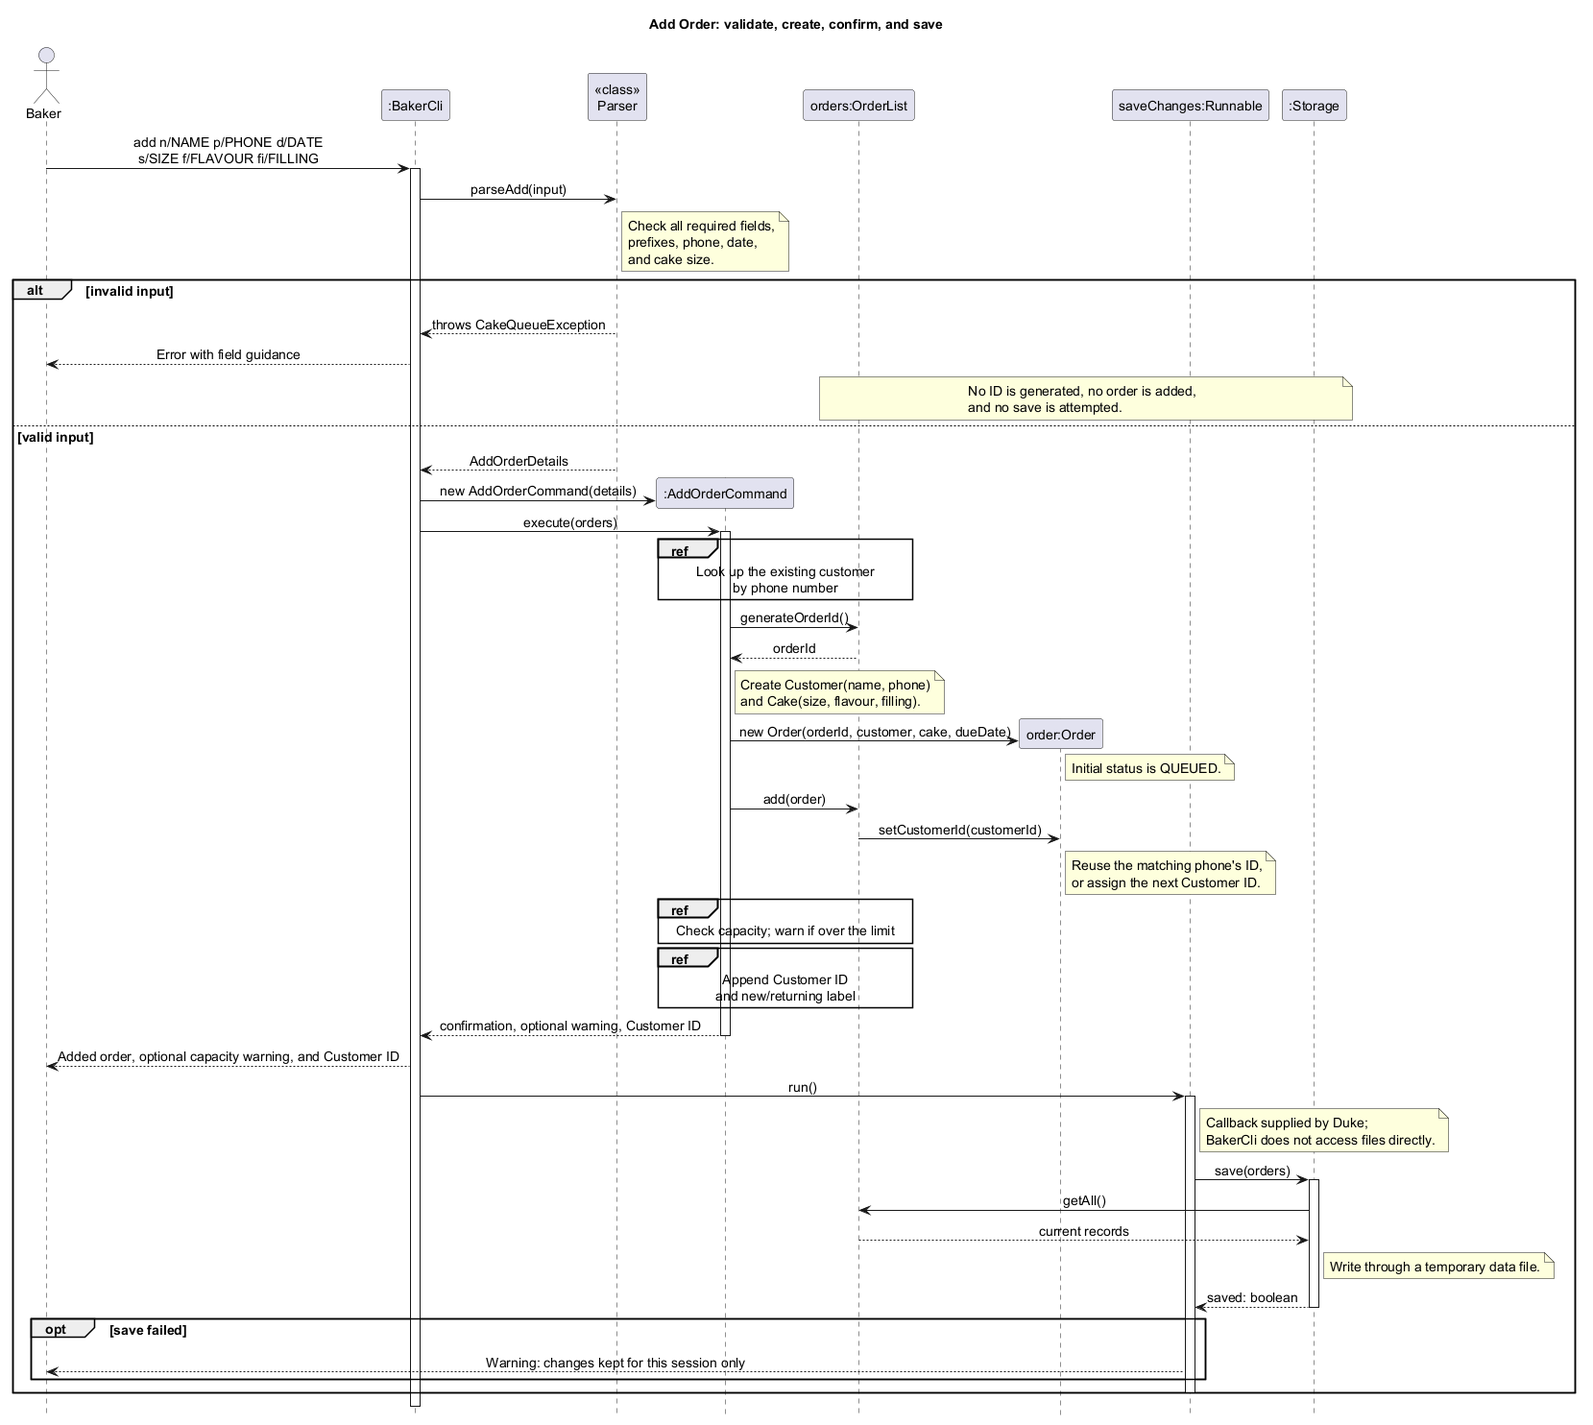
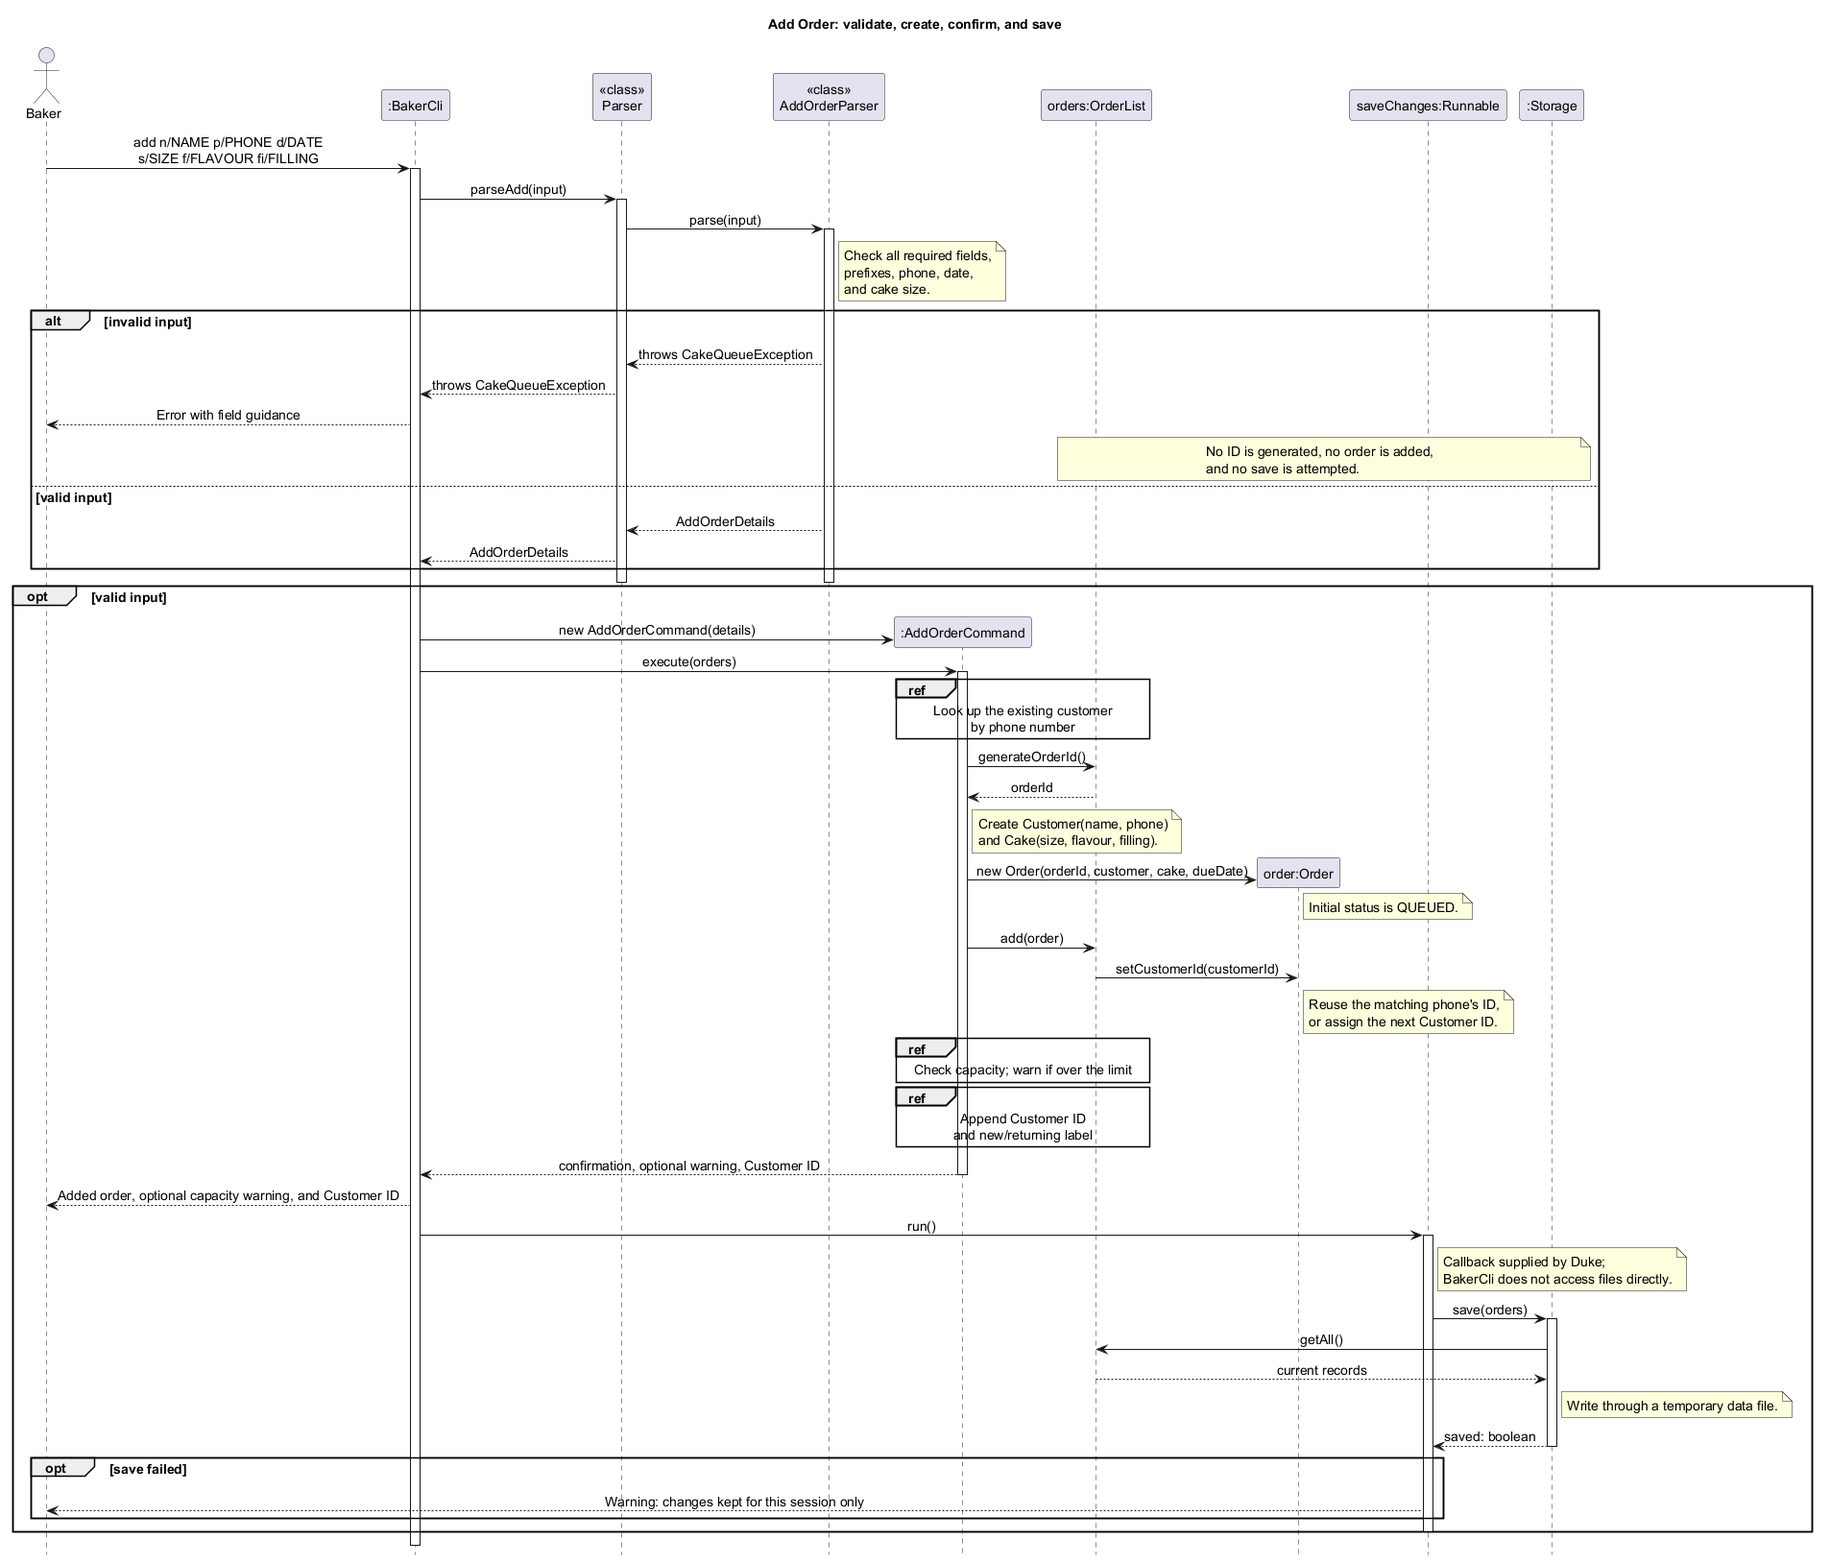
Extract AddOrderParser
Separate six-field Add Order parsing while retaining the existing entry point, shared validation rules and original author credit. Update the Developer Guide and diagrams to match.

diff --git a/src/main/java/seedu/duke/parser/Parser.java b/src/main/java/seedu/duke/parser/Parser.java
@@ -19,21 +19,12 @@ import seedu.duke.model.OrderStatus;
  * Parses and validates CakeQueue command input for baker mode.
  */
 public final class Parser {
-    private static final List<String> PREFIXES = List.of("n/", "p/", "d/", "s/", "f/", "fi/");
-    //@@author Eethanzyj
-    /**
-     * Gives a field's purpose and syntax when a required value is missing.
-     */
-    private static final Map<String, String> FIELD_GUIDANCE = Map.of(
-            "n/", "a customer name using n/NAME",
-            "p/", "a phone number using p/PHONE",
-            "d/", "a due date using d/DD-MM-YYYY",
-            "s/", "a cake size using s/6, s/8, or s/10",
-            "f/", "a cake flavour using f/FLAVOUR",
-            "fi/", "a cake filling using fi/FILLING");
-    //@@author
-    private static final Pattern FIELD_PREFIX = Pattern.compile("(?<!\\S)([^\\s/]+/)");
-    private static final String USAGE = "Use: add n/NAME p/PHONE d/DATE s/SIZE f/FLAVOUR fi/FILLING";
+    // Package-private syntax and validators are shared by Add Order and Edit Order parsing.
+    static final List<String> PREFIXES = List.of("n/", "p/", "d/", "s/", "f/", "fi/");
+    static final Pattern FIELD_PREFIX = Pattern.compile("(?<!\\S)([^\\s/]+/)");
+    static final DateTimeFormatter DATE_FORMATTER = DateTimeFormatter
+            .ofPattern("dd-MM-uuuu")
+            .withResolverStyle(ResolverStyle.STRICT);
     private static final String UPDATE_USAGE =
             "Use: edit ORDER_ID [n/NAME] [p/PHONE] [d/DATE] "
                     + "[s/SIZE] [f/FLAVOUR] [fi/FILLING]";
@@ -41,9 +32,6 @@ public final class Parser {
     private static final String MARK_USAGE = "Use: mark ORDER_ID preparing|ready|collected";
     private static final String CAPACITY_USAGE = "Use: capacity [NUMBER]";
     private static final String FIND_USAGE = "Use: find KEYWORD";
-    private static final DateTimeFormatter DATE_FORMATTER = DateTimeFormatter
-            .ofPattern("dd-MM-uuuu")
-            .withResolverStyle(ResolverStyle.STRICT);
 
     private Parser() {
     }
@@ -166,14 +154,19 @@ public final class Parser {
         }
     }
 
-    //@@author HammerHead-os
+    //@@author Eethanzyj
     /**
-     * Parses and validates a baker add command.
+     * Delegates Add Order validation to its dedicated parser.
+     *
+     * @param input The complete command entered by the baker.
+     * @return The validated details used by AddOrderCommand.
+     * @throws CakeQueueException If the command or any required field is invalid.
      */
     public static AddOrderDetails parseAdd(String input) {
-        return parseSixFieldCommand(input, "add", USAGE);
+        return AddOrderParser.parse(input);
     }
 
+    //@@author HammerHead-os
     /**
      * Parses cancel ORDER_ID|ENQUIRY_ID.
      */
@@ -200,42 +193,12 @@ public final class Parser {
     }
 
     //@@author HammerHead-os
-    private static AddOrderDetails parseSixFieldCommand(String input, String commandWord,
-                                                        String usage) {
-        if (input == null || input.isBlank()) {
-            throw new CakeQueueException(usage);
-        }
-        //@@author Eethanzyj
-        String[] command = input.trim().split("\\s+", 2);
-        //@@author HammerHead-os
-        if (!command[0].equalsIgnoreCase(commandWord) || command.length != 2) {
-            throw new CakeQueueException(usage);
-        }
-        Map<String, String> fields = parseFields(command[1], usage);
-        //@@author Eethanzyj
-        LocalDate dueDate;
-        try {
-            dueDate = LocalDate.parse(fields.get("d/"), DATE_FORMATTER);
-        } catch (DateTimeParseException exception) {
-            //@@author HammerHead-os
-            throw new CakeQueueException("Date must use DD-MM-YYYY and be valid.", exception);
-        }
-        // Reject dates in the past — a baker cannot bake for yesterday.
-        if (dueDate.isBefore(LocalDate.now())) {
-            throw new CakeQueueException("Due date cannot be in the past.");
-        }
-        validatePhone(fields.get("p/"));
-        int size = parseCakeSize(fields.get("s/"));
-        return new AddOrderDetails(fields.get("n/"), fields.get("p/"), dueDate,
-                size, fields.get("f/"), fields.get("fi/"));
-    }
-
     /**
      * Validates that a phone number has at least 8 digits and otherwise only spaces, {@code +} or {@code -}.
      * This catches obvious typos (letters, symbols) while still accepting formatted numbers such as
      * {@code +65 9123-4567}, without enforcing a specific country format.
      */
-    private static void validatePhone(String phone) {
+    static void validatePhone(String phone) {
         boolean hasAllowedCharacters = phone.matches("[0-9+\\- ]+");
         long digitCount = phone.chars().filter(Character::isDigit).count();
         if (!hasAllowedCharacters || digitCount < 8) {
@@ -258,7 +221,7 @@ public final class Parser {
     }
 
     //@@author
-    private static int parseCakeSize(String sizeText) {
+    static int parseCakeSize(String sizeText) {
         int size;
         try {
             size = Integer.parseInt(sizeText);
@@ -269,48 +232,6 @@ public final class Parser {
             throw new CakeQueueException("Cake size must be 6, 8, or 10 inches.");
         }
         return size;
-    }
-
-    /**
-     * Extracts field values between prefixes and rejects missing or repeated fields.
-     */
-    private static Map<String, String> parseFields(String arguments, String usage) {
-        Map<String, String> fields = new LinkedHashMap<>();
-        Matcher matcher = FIELD_PREFIX.matcher(arguments);
-        String previousPrefix = null;
-        int valueStart = 0;
-        while (matcher.find()) {
-            if (previousPrefix == null && !arguments.substring(0, matcher.start()).isBlank()) {
-                throw new CakeQueueException(usage);
-            }
-            if (previousPrefix != null) {
-                fields.put(previousPrefix, arguments.substring(valueStart, matcher.start()).trim());
-            }
-            String prefix = matcher.group(1);
-            //@@author Eethanzyj
-            if (!PREFIXES.contains(prefix)) {
-                throw new CakeQueueException("Unknown field: " + prefix
-                        + ". Supported prefixes: " + String.join(", ", PREFIXES) + ".");
-            }
-            if (fields.containsKey(prefix)) {
-                throw new CakeQueueException("Duplicate field: " + prefix + ". Supply each field once.");
-            }
-            //@@author
-            previousPrefix = prefix;
-            valueStart = matcher.end();
-        }
-        if (previousPrefix != null) {
-            fields.put(previousPrefix, arguments.substring(valueStart).trim());
-        }
-        //@@author Eethanzyj
-        for (String prefix : PREFIXES) {
-            if (!fields.containsKey(prefix) || fields.get(prefix).isBlank()) {
-                throw new CakeQueueException("Missing value for " + prefix
-                        + ". Please provide " + FIELD_GUIDANCE.get(prefix) + ".");
-            }
-        }
-        //@@author
-        return fields;
     }
 
     /**
@@ -325,8 +246,9 @@ public final class Parser {
         private final String flavour;
         private final String filling;
 
-        private AddOrderDetails(String customerName, String phone, LocalDate dueDate,
-                                int size, String flavour, String filling) {
+        // Package-private so AddOrderParser can construct details after validating all fields.
+        AddOrderDetails(String customerName, String phone, LocalDate dueDate,
+                        int size, String flavour, String filling) {
             this.customerName = customerName;
             this.phone = phone;
             this.dueDate = dueDate;

diff --git a/src/main/java/seedu/duke/parser/AddOrderParser.java b/src/main/java/seedu/duke/parser/AddOrderParser.java
@@ -1,0 +1,111 @@
+package seedu.duke.parser;
+
+//@@author Eethanzyj
+
+import java.time.LocalDate;
+import java.time.format.DateTimeParseException;
+import java.util.LinkedHashMap;
+import java.util.Map;
+import java.util.regex.Matcher;
+
+import seedu.duke.exception.CakeQueueException;
+
+/**
+ * Parses the six required Add Order fields without creating orders or changing stored data.
+ * Shared field rules remain in Parser so Add Order and Edit Order use the same validation.
+ */
+public final class AddOrderParser {
+    private static final String USAGE = "Use: add n/NAME p/PHONE d/DATE s/SIZE f/FLAVOUR fi/FILLING";
+
+    /** Gives a field's purpose and syntax when a required value is missing. */
+    private static final Map<String, String> FIELD_GUIDANCE = Map.of(
+            "n/", "a customer name using n/NAME",
+            "p/", "a phone number using p/PHONE",
+            "d/", "a due date using d/DD-MM-YYYY",
+            "s/", "a cake size using s/6, s/8, or s/10",
+            "f/", "a cake flavour using f/FLAVOUR",
+            "fi/", "a cake filling using fi/FILLING");
+
+    private AddOrderParser() {
+    }
+
+    /**
+     * Validates an Add Order command and returns its customer and cake details.
+     *
+     * @param input The complete command entered by the baker.
+     * @return Validated details, ready for AddOrderCommand to execute.
+     * @throws CakeQueueException If the command or any required field is invalid.
+     */
+    public static Parser.AddOrderDetails parse(String input) {
+        //@@author HammerHead-os
+        if (input == null || input.isBlank()) {
+            throw new CakeQueueException(USAGE);
+        }
+        //@@author Eethanzyj
+        String[] command = input.trim().split("\\s+", 2);
+        //@@author HammerHead-os
+        if (!command[0].equalsIgnoreCase("add") || command.length != 2) {
+            throw new CakeQueueException(USAGE);
+        }
+        Map<String, String> fields = parseFields(command[1], USAGE);
+        //@@author Eethanzyj
+        LocalDate dueDate;
+        try {
+            dueDate = LocalDate.parse(fields.get("d/"), Parser.DATE_FORMATTER);
+        } catch (DateTimeParseException exception) {
+            //@@author HammerHead-os
+            throw new CakeQueueException("Date must use DD-MM-YYYY and be valid.", exception);
+        }
+        // Reject dates in the past - a baker cannot bake for yesterday.
+        if (dueDate.isBefore(LocalDate.now())) {
+            throw new CakeQueueException("Due date cannot be in the past.");
+        }
+        Parser.validatePhone(fields.get("p/"));
+        int size = Parser.parseCakeSize(fields.get("s/"));
+        return new Parser.AddOrderDetails(fields.get("n/"), fields.get("p/"), dueDate,
+                size, fields.get("f/"), fields.get("fi/"));
+    }
+
+    //@@author Eethanzyj
+    /**
+     * Extracts field values between prefixes and rejects missing or repeated fields.
+     */
+    //@@author HammerHead-os
+    private static Map<String, String> parseFields(String arguments, String usage) {
+        //@@author Eethanzyj
+        Map<String, String> fields = new LinkedHashMap<>();
+        Matcher matcher = Parser.FIELD_PREFIX.matcher(arguments);
+        String previousPrefix = null;
+        int valueStart = 0;
+        while (matcher.find()) {
+            if (previousPrefix == null && !arguments.substring(0, matcher.start()).isBlank()) {
+                //@@author HammerHead-os
+                throw new CakeQueueException(usage);
+                //@@author Eethanzyj
+            }
+            if (previousPrefix != null) {
+                fields.put(previousPrefix, arguments.substring(valueStart, matcher.start()).trim());
+            }
+            String prefix = matcher.group(1);
+            if (!Parser.PREFIXES.contains(prefix)) {
+                throw new CakeQueueException("Unknown field: " + prefix
+                        + ". Supported prefixes: " + String.join(", ", Parser.PREFIXES) + ".");
+            }
+            if (fields.containsKey(prefix)) {
+                throw new CakeQueueException("Duplicate field: " + prefix + ". Supply each field once.");
+            }
+            previousPrefix = prefix;
+            valueStart = matcher.end();
+        }
+        if (previousPrefix != null) {
+            fields.put(previousPrefix, arguments.substring(valueStart).trim());
+        }
+        for (String prefix : Parser.PREFIXES) {
+            if (!fields.containsKey(prefix) || fields.get(prefix).isBlank()) {
+                throw new CakeQueueException("Missing value for " + prefix
+                        + ". Please provide " + FIELD_GUIDANCE.get(prefix) + ".");
+            }
+        }
+        return fields;
+    }
+}

diff --git a/docs/DeveloperGuide.md b/docs/DeveloperGuide.md
@@ -89,8 +89,10 @@ show this in detail for two commands.
 ### Parser
 
 `Parser` is a utility class with only static methods, one per command shape, such as `parseFind`,
-`parseCapacity`, `parseView` and `parseAdd`. Field-based commands (`add` and `edit`) use shared
-routines that find the `n/`, `p/`, `d/`, `s/`, `f/` and `fi/` prefixes, reject unknown or repeated
+`parseCapacity`, `parseView` and `parseAdd`. `parseAdd` delegates to `AddOrderParser`, which
+extracts and validates the six required fields. Add and edit share the prefix definitions,
+strict date formatter, phone validator and cake-size validator in `Parser`; these helpers
+are accessible only within the parser package. The parsers reject unknown or repeated
 prefixes and empty values, and check dates, phone numbers and cake sizes. The parser checks
 syntax and field rules. Checks that need stored data, such as whether an order ID exists,
 are done by the commands. `parseUpdate` is the internal method name for parsing `edit`;
@@ -164,7 +166,8 @@ the customer/history section below explains customer grouping in more detail.
 | --- | --- |
 | `BakerCli` | Parses `add` once, runs `AddOrderCommand`, prints its result and requests saving. |
 | `AddOrderCommand` | Creates and adds the order, logs its ID, and returns the order/customer confirmation and optional warning. |
-| `Parser` | Checks the command and returns an `AddOrderDetails` value object. |
+| `Parser` | Keeps the `parseAdd` entry point and delegates to `AddOrderParser`. |
+| `AddOrderParser` | Checks the six required fields and returns a `Parser.AddOrderDetails` value object. |
 | `Customer` | Holds the name and phone recorded for this order. |
 | `Cake` | Holds the size, flavour, and filling. |
 | `Order` | Combines these details with an ID, due date, and status. |
@@ -182,7 +185,8 @@ allows the customer/history commands to group them without merging the orders.
 
 The syntax is `add n/NAME p/PHONE d/DATE s/SIZE f/FLAVOUR fi/FILLING`.
 `BakerCli` calls `Parser.parseAdd` once and passes the returned immutable
-`AddOrderDetails` to `AddOrderCommand`. The command receives values rather than raw input;
+`AddOrderDetails` to `AddOrderCommand`. `Parser.parseAdd` delegates validation to
+`AddOrderParser.parse`. The command receives values rather than raw input;
 it does not parse again. Parsing and validation therefore finish before customer lookup,
 ID generation or model changes. The parser identifies prefixes, collects their values,
 checks required fields and converts the date and size.
@@ -209,7 +213,7 @@ For example, a blank name produces
 continues accepting commands. A failed parse neither consumes an ID nor changes
 the in-memory list or the saved file.
 
-Keeping these checks in `Parser` avoids repeating six-field parsing in each CLI.
+Keeping these checks in `AddOrderParser` separates Add Order validation from other commands.
 The parser returns structured details rather than creating an order itself, so
 validation can be tested without generating IDs or writing files. The same phone
 validation applies to `add` and `edit`: at least eight digits, with spaces, `+` and `-` allowed.
@@ -218,8 +222,10 @@ validation applies to `add` and `edit`: at least eight digits, with spaces, `+` 
 order creation and confirmation. This matches the existing command classes and allows
 direct tests without console streams or files. The command reuses customer grouping and
 capacity logic; those shared responsibilities remain in their existing classes. Its input
-uses the existing `Parser.AddOrderDetails`, so no second parser or duplicate request class
-is needed. The CLI retains the save callback, keeping the command independent of storage.
+uses the existing `Parser.AddOrderDetails`, so the extraction does not require changes to
+command callers or another request class. `Parser.parseAdd` remains the entry point, and
+only `AddOrderParser` handles the six required fields. The CLI retains the save callback,
+keeping the command independent of storage.
 
 #### Creating and saving an order
 
@@ -240,7 +246,9 @@ the customer is new or returning; it does not generate another order.
 The ID counter produces values such as `O001` and `O002`. When `Storage.load`
 restores existing records, `OrderList.add` advances the counters past their IDs.
 Consequently, the next add continues after the restored IDs instead of starting
-again at `O001`. Rejected command input does not advance the counter because
+again at `O001`. Three digits are a minimum width: `O999` is followed by `O1000`,
+which remains usable by view and edit commands and after restarting.
+Rejected command input does not advance the counter because
 parsing precedes ID generation.
 
 `BakerCli.run` prints the confirmation and invokes its `afterChange` callback.
@@ -260,7 +268,8 @@ confirmation before saving, and a separate warning on failure.
 | --- | --- |
 | `AddOrderCommandTest` | Complete order creation, returning customers with cancelled orders, restored ID counters, and warning placement. |
 | `AddOrderValidationTest` | Guidance for each missing field, blank names, punctuation, Unicode, and formatted phones. |
-| `AddOrderReliabilityTest` | Rejected commands preserve saved data and IDs; names survive restarting; customer IDs and capacity warnings, and independent name edits work together. |
+| `AddOrderReliabilityTest` | Rejected commands preserve saved data and IDs; names survive restarting; customer IDs and capacity warnings, and independent name edits work together. Four-digit IDs can be added, viewed, edited, saved and restored. |
+| `OrderListTest` | Basic order storage and sequential IDs, including the transition from `O999` to `O1000`. |
 | `ParserTest` and `ParserErrorTest` | Existing command syntax, date/size validation, unknown prefixes, and duplicate fields. |
 
 CLI tests run against JUnit temporary folders. They restore standard input and
